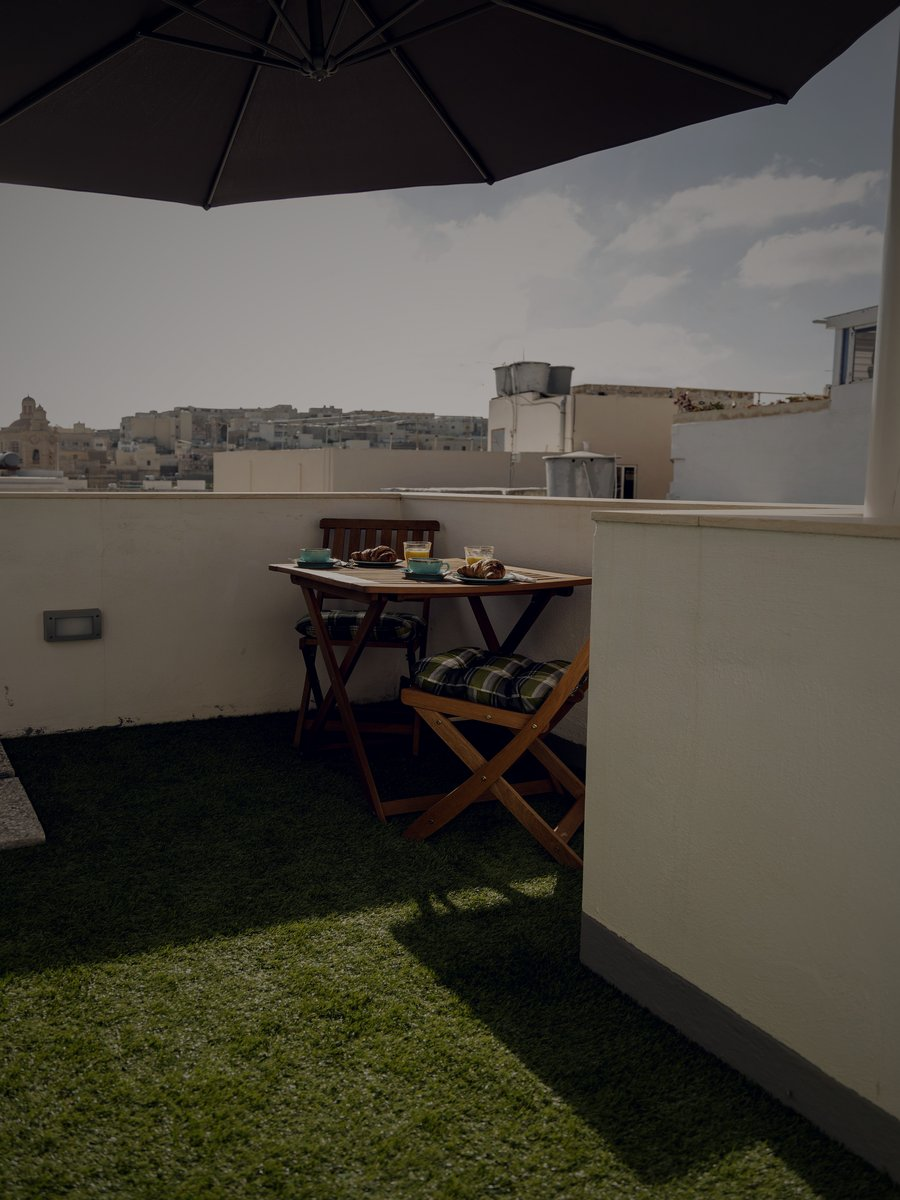
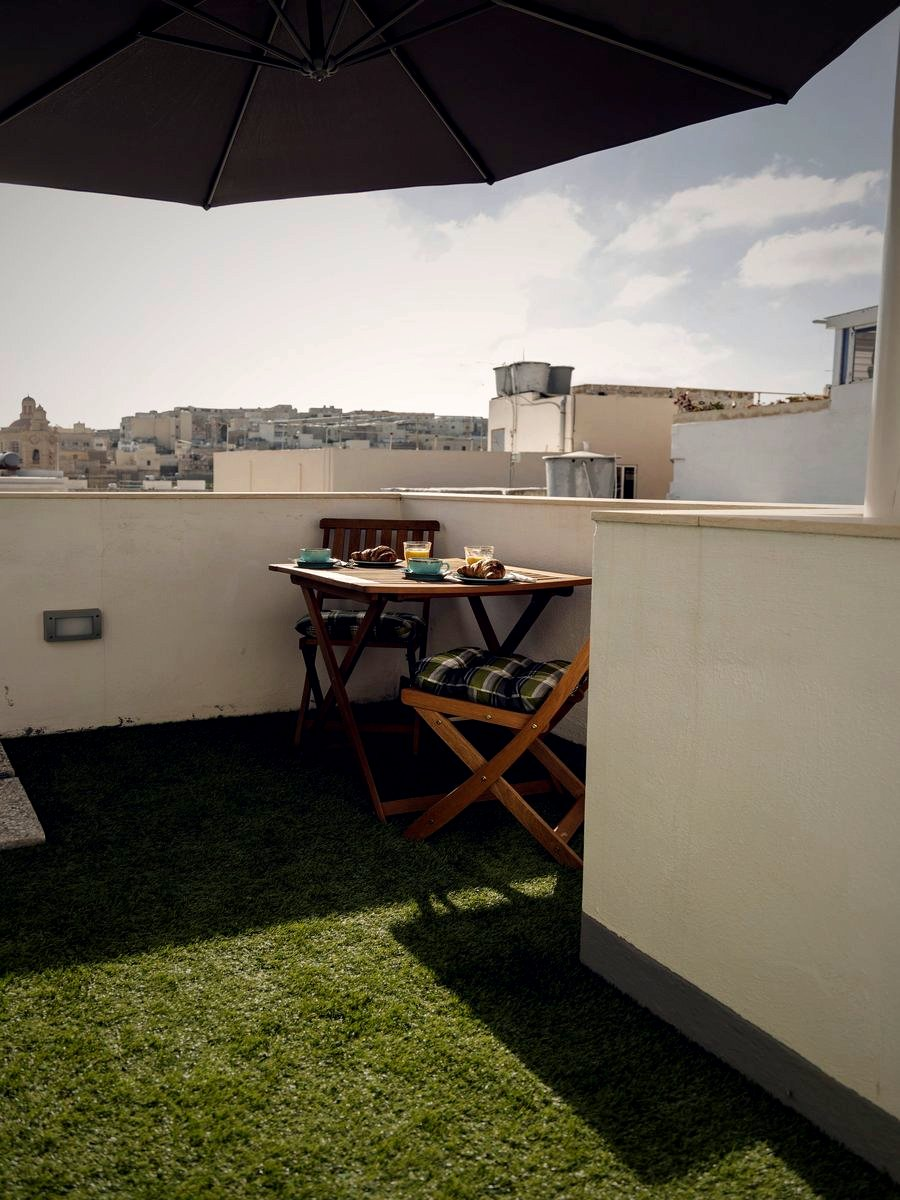
Brighten terrace room photo, swap entrance for exterior shot
- Brighten terrace-room.jpg to match other room card photos
- Replace roel-entrance.jpg with outsidea.jpg (roel-outside.jpg) in "Where Malta Feels Like Home" section

diff --git a/site/index.html b/site/index.html
@@ -157,7 +157,7 @@
                     </div>
                 </div>
                 <div class="col col-md-3 animate-box" data-animate-effect="fadeInUp">
-                    <img src="img/rooms/roel-entrance.jpg" alt="Roel Boutique B&B entrance" class="mt-90 mb-30">
+                    <img src="img/rooms/roel-outside.jpg" alt="Roel Boutique B&B exterior" class="mt-90 mb-30">
                 </div>
                 <div class="col col-md-3 animate-box" data-animate-effect="fadeInUp">
                     <img src="img/rooms/roel-guest-reading.jpg" alt="Guest relaxing at Roel B&B">
